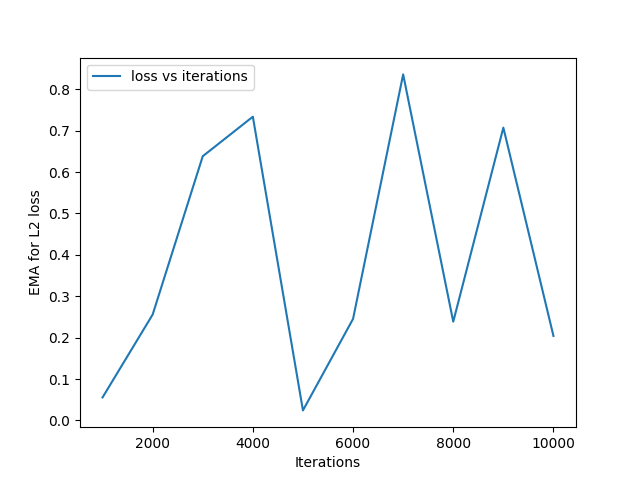
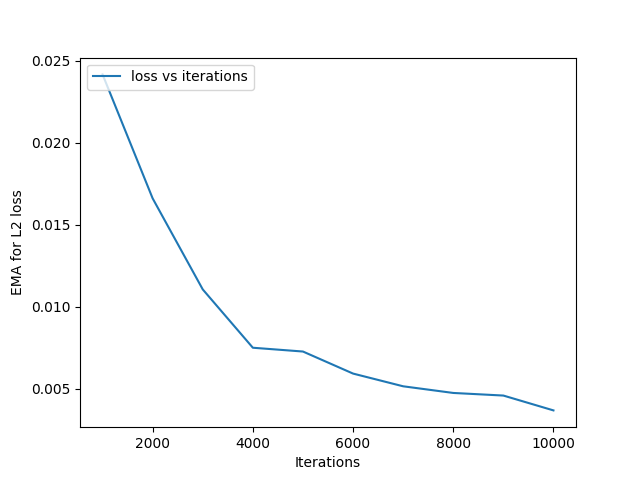
Checkpoint run : DDPM Unet2d MNIST8 , loss and sinkhorn curves good, generated images good"

diff --git a/denoising_diffusion_pytorch/ddpm_sandbox/test/test_diffusion_model.py b/denoising_diffusion_pytorch/ddpm_sandbox/test/test_diffusion_model.py
@@ -43,7 +43,7 @@ def tensor_to_images(sample_tensor: torch.Tensor, dataset_name: str):
     elif dataset_name in GaussianDiffusion.SKLEARN_DATASET_NAMES:
         sample_tensor_np = sample_tensor.cpu().detach().numpy()
         plt.clf()
-        plt.scatter(sample_tensor_np[:,0], sample_tensor_np[:,1])
+        plt.scatter(sample_tensor_np[:, 0], sample_tensor_np[:, 1])
         out_filename = f"./generated_images/{dataset_name}.png"
         plt.savefig(out_filename)
         logger.info(f"Successfully written output file to {out_filename}")
@@ -52,7 +52,7 @@ def tensor_to_images(sample_tensor: torch.Tensor, dataset_name: str):
 
 
 if __name__ == '__main__':
-    time_steps = 50
+    time_steps = 1000
     device = torch.device('cuda')
     image_size = 32
     num_images = 1
@@ -60,11 +60,11 @@ if __name__ == '__main__':
     batch_size = 32
     # num_train_step = 20_000
     model_name = "ddpm_nn"
-    # dataset_name = "mnist8"
-    dataset_name = "circles"
+    dataset_name = "mnist8"
+    # dataset_name = "circles"
     model_checkpoint_ext = ".pt"
     checkpoint_metadata_ext = ".json"
-    diffusion_model_objective="pred_noise"
+    diffusion_model_objective = "pred_noise"
     model_checkpoints_path = f"../models/checkpoints/{model_name}_{dataset_name}"
     final_model_checkpoint_name = "checkpoint_model_5000.pt"
     final_model_path = os.path.join(model_checkpoints_path, final_model_checkpoint_name)
@@ -124,7 +124,7 @@ if __name__ == '__main__':
     elif dataset_name == "circles":
         baseline_sinkhorn_value = 0.06
     elif dataset_name == "mnist6":
-        baseline_sinkhorn_value = 35 # just adhoc val. need to set it correctly
+        baseline_sinkhorn_value = 35  # just adhoc val. need to set it correctly
     else:
         raise ValueError(f"Still have no baseline sinkhorn distance for dataset_name = {dataset_name}")
     for iter_num in checkpoint_niters:
@@ -161,7 +161,6 @@ if __name__ == '__main__':
     plt.ylabel("EMA for L2 loss")
     plt.plot(x, y, label="loss vs iterations")
     plt.legend(loc="upper left")
-
     plt.savefig("iter_loss.png")
     logger.info(f"loading model weights from file {final_model_path}")
     diffusion_model.load_state_dict(torch.load(final_model_path))
@@ -169,10 +168,8 @@ if __name__ == '__main__':
     #
     logger.info("Sampling images")
     sampled_images = diffusion_model.sample(batch_size=sample_batch_size)
-    # FIXME No need now for this quantile analysis , remove it later
-    # quantiles = [0.0, 0.25, 0.5, 0.75, 1.0]
-    # logger.info(
-    #     f"quantiles of levels {quantiles} = {torch.quantile(input=sampled_images, q=torch.tensor(quantiles).to(device))}")
-    # logger.info(f"Average of the sampled images {torch.mean(sampled_images)}")
+    # FIXME No need now for this quantile analysis , remove it later quantiles = [0.0, 0.25, 0.5, 0.75,
+    #  1.0] logger.info( f"quantiles of levels {quantiles} = {torch.quantile(input=sampled_images, q=torch.tensor(
+    #  quantiles).to(device))}") logger.info(f"Average of the sampled images {torch.mean(sampled_images)}")
     tensor_to_images(sample_tensor=sampled_images, dataset_name=dataset_name)
     logger.info("Testing script finished")

diff --git a/denoising_diffusion_pytorch/ddpm_sandbox/ddpm_trainer.py b/denoising_diffusion_pytorch/ddpm_sandbox/ddpm_trainer.py
@@ -434,6 +434,7 @@ if __name__ == '__main__':
     num_channels = 1
     batch_size = 64
     num_train_iterations = 10_000
+
     debug_flag = False
     pbar_update_freq = 100
     checkpoint_freq = 1000
